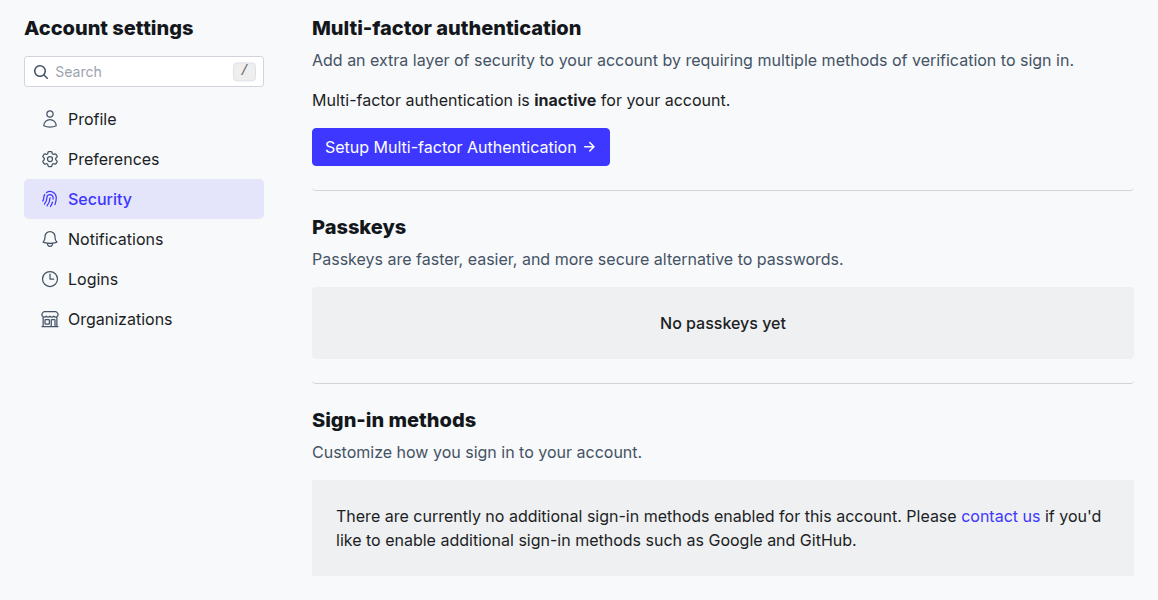
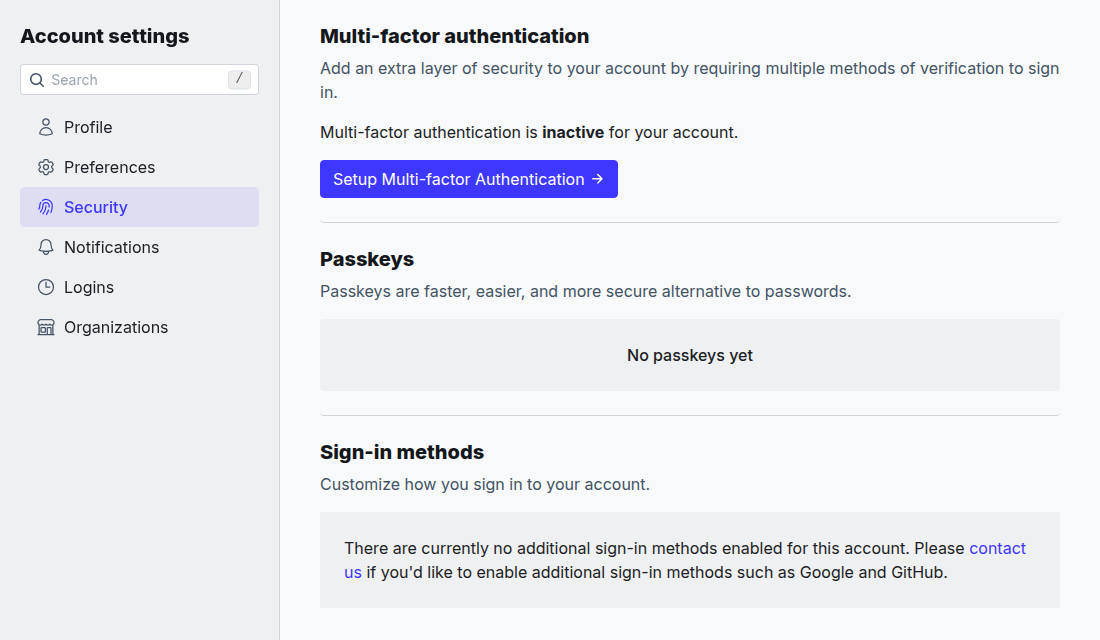
docs(settings): audit logs are listed in their section; screenshots show the settings rail (STG-501)

diff --git a/docs/security/audit-logs.md b/docs/security/audit-logs.md
@@ -10,17 +10,19 @@ SFTP To Go's audit logs keep track of all the activities happening in your stora
 Logs are retained for a certain period, depending on your organization's subscription plan.
 :::
 
-To inspect your audit logs, open **Settings** in the dashboard menu, go to [**Audit logs**](../getting-started/organization-settings#audit-logs), and click **View audit logs** to open the audit logs dialog.
+To inspect your audit logs, open **Settings** in the dashboard menu and go to [**Audit logs**](../getting-started/organization-settings#audit-logs). The section lists the entries, latest first, in your timezone. Use the filters above the table (**Username**, **Principal ID**, **Session ID**, **IP address**, **Type** and **Timestamp**) to narrow them down. Click an entry to expand its details.
 
-The logs are sorted in a descending order (latest activity to earliest activity), in your timezone. You can filter the logs by timestamp range, Username or session ID.
+![The Audit logs section of organization settings, with the filters above the table of audit log entries](../../static/img/organization-settings-audit-logs.png)
+
+To see the audit logs of one set of credentials or one share link, open the **...** menu on its row in **Credentials** or **Share links** and select **View audit logs**. The **Audit logs** section opens filtered to it.
 
 :::tip
-Expand an event and click the Username or Session ID links to quickly filter for the same username or session ID.
+In an expanded entry, click the **Username**, **Principal ID** or **Session ID** value to filter the list by it.
 :::
 
 ## Exporting Audit Logs {#export}
 
-To export audit logs to your SFTP To Go storage, open **Settings** in the dashboard menu, go to [**Audit logs**](../getting-started/organization-settings#audit-logs), and find **Export audit logs**. Choose the time range you want and click Export to CSV to generate the files. Note that the time range is based on your local time.
+To export audit logs to your SFTP To Go storage, open **Settings** in the dashboard menu, go to [**Audit logs**](../getting-started/organization-settings#audit-logs), and find **Export audit logs** below the table. Choose the time range you want and click Export to CSV to generate the files. Note that the time range is based on your local time.
 
 The audit data will be saved as CSV files under the /audit-logs folder in your storage, where you can access, download, or process them as needed. You will get an email notification when the process is complete. 
 
@@ -148,7 +150,7 @@ Unlike the CSV export — where `Data` is stringified to fit a CSV cell — the 
 
 ### Add a streaming destination
 
-1. Open **Settings** in the dashboard menu, go to [**Audit logs**](../getting-started/organization-settings#audit-logs), and find **Stream audit logs**.
+1. Open **Settings** in the dashboard menu, go to [**Audit logs**](../getting-started/organization-settings#audit-logs), and find **Stream audit logs** below the table.
 2. Click **Add destination**.
 3. Pick a destination type and click **Next**.
 4. Enter a **Destination name** (used to identify the destination in the dashboard) and the provider-specific configuration:

diff --git a/docs/getting-started/organization-settings.md b/docs/getting-started/organization-settings.md
@@ -144,9 +144,8 @@ Malware protection is only available with certain plans. Read more about our dif
 
 ## Audit logs {#audit-logs}
 
-Use the audit logs to monitor access to your storage. In **Organization settings**, open **Audit logs** to:
+Use the audit logs to monitor access to your storage. In **Organization settings**, open **Audit logs**. The section lists your organization's audit log entries; use the filters above the table to narrow them down by username, principal ID, session ID, IP address, event type or timestamp, and click an entry to expand its details. Below the table, you can:
 
-* Click **View audit logs** to browse through your organization's logs and filter them by username, session ID or timestamp range.
 * Export audit logs as files into your storage, for long term storage or further processing. Refer to [Exporting audit logs](../security/audit-logs.md#export).
 * Stream audit logs to a security information and event management (SIEM) system or your own endpoint. Refer to [Streaming audit logs](../security/audit-logs.md#stream).
 
